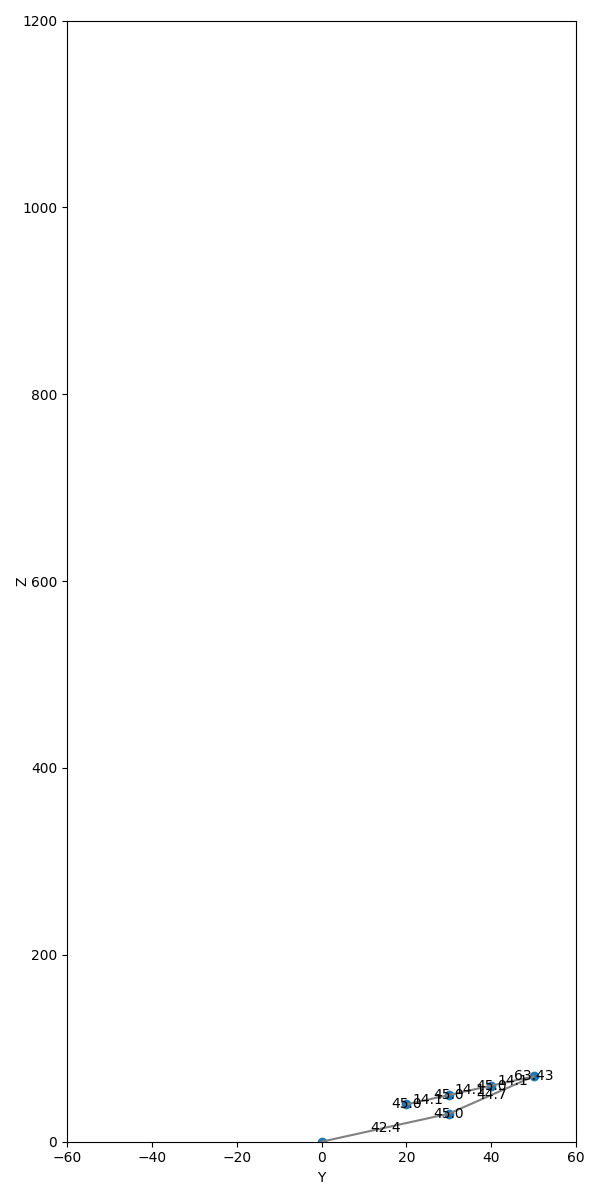
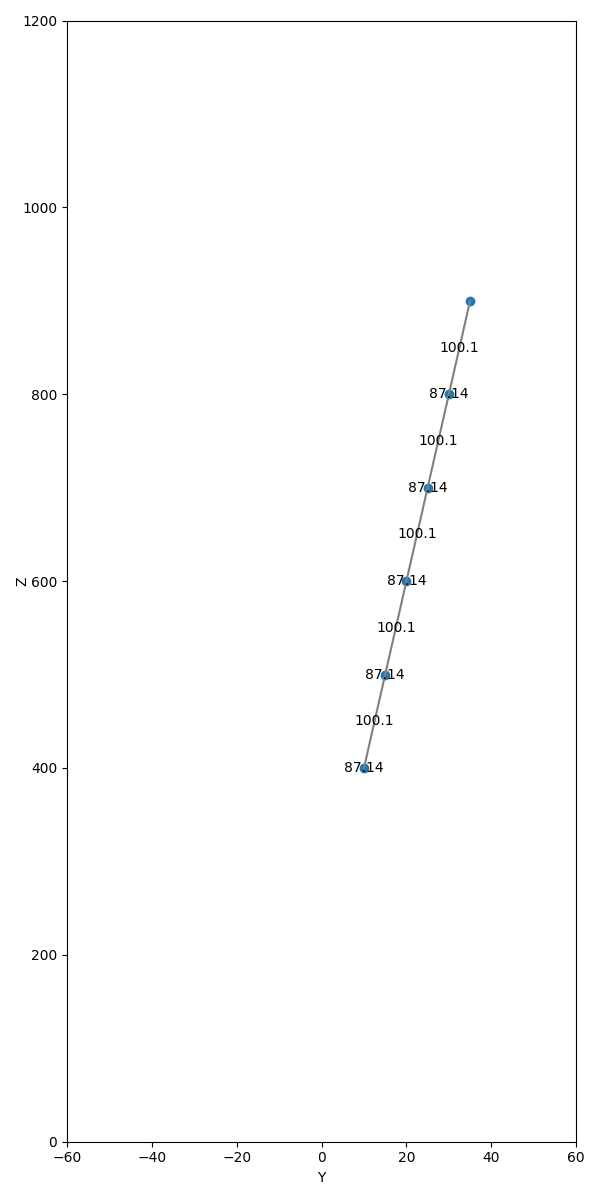
before changing coded

Changed region(s): [[0.63, 0.2467, 0.81, 0.5858], [0.6, 0.8942, 0.9, 0.9558], [0.57, 0.5858, 0.63, 0.6475]]

diff --git a/main.py b/main.py
@@ -443,13 +443,11 @@ def saveAsPdf(imie, nazwisko, dataUrodzenia, pesel, dataPomiaru, opis):
 
 
 def testPoints():
-    for i in range(5):
-        points[0, i] = i * 10
-        points[1, i] = (i + 2) * 10
-        points[2, i] = (i + 4) * 10
-    points[0, 4] = 30
-    points[1, 4] = 30
-    points[2, 4] = 30
+    for i in range(6):
+        points[0, i] = 20 + i * 10
+        points[1, i] = (i + 2) * 5
+        points[2, i] = (i + 4) * 100
+
     print(points)
     # previewPlot()
     xzprojection = plotPoints2d(points[0], points[2], root, 'xzprojection.png', 'X')
